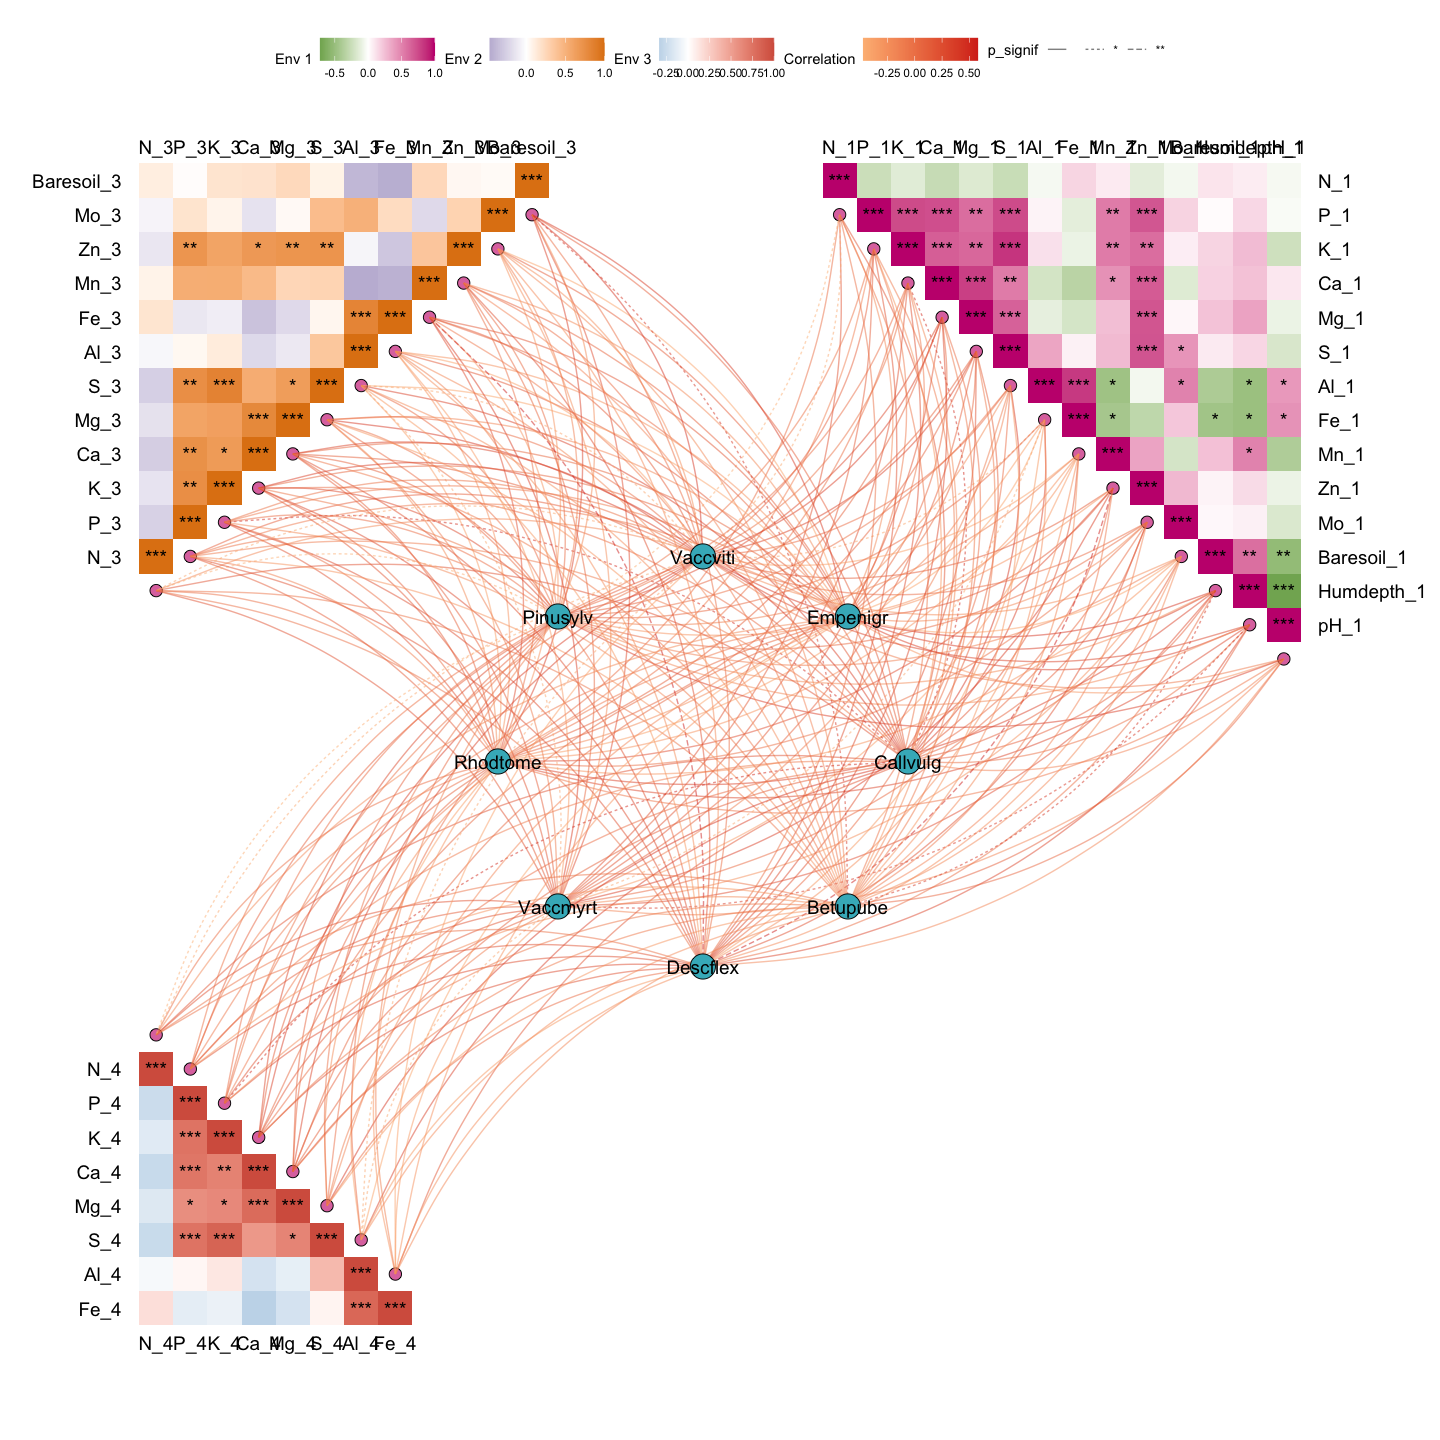
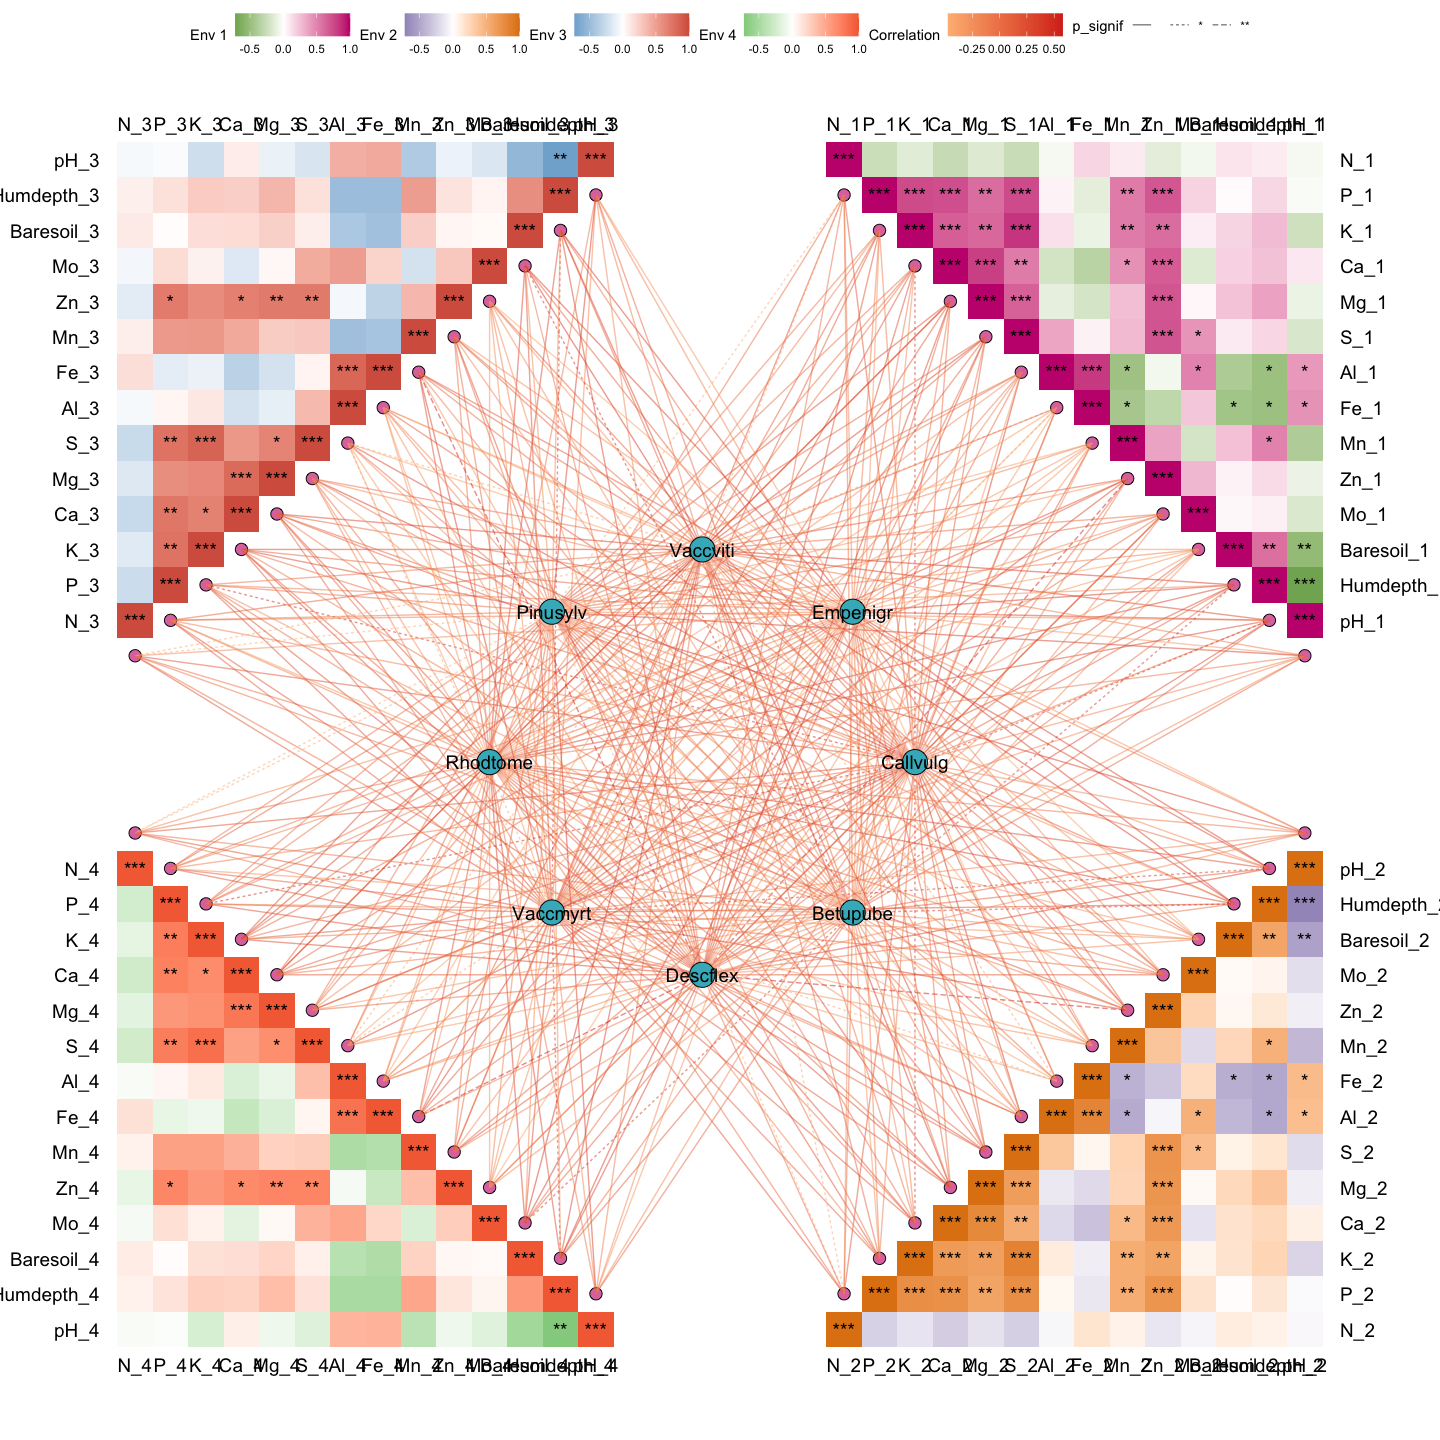
update

diff --git a/README.md b/README.md
@@ -58,6 +58,7 @@ library(ggNetView)
 #>   Run browseVignettes('ggNetView') for documentation.
 #> 
 library(ggplot2)
+#> Warning: package 'ggplot2' was built under R version 4.5.2
 library(ggnewscale)
 ```
 
@@ -145,6 +146,7 @@ p1 <- ggNetView(
   layout = "gephi",
   layout.module = "adjacent",
   group.by = "Modularity",
+  fill.by = "Modularity",
   pointsize = c(1, 5),
   center = F,
   jitter = F,
@@ -153,8 +155,6 @@ p1 <- ggNetView(
   linealpha = 0.2,
   linecolor = "#d9d9d9"
 ) 
-#> Scale for fill is already present.
-#> Adding another scale for fill, which will replace the existing scale.
 
 p1
 ```
@@ -167,6 +167,7 @@ p2 <- ggNetView(
   layout = "gephi",
   layout.module = "random",
   group.by = "Modularity",
+  fill.by = "Modularity",
   pointsize = c(1, 5),
   center = F,
   jitter = TRUE,
@@ -178,12 +179,8 @@ p2 <- ggNetView(
   add_outer = T,
   label = T
 ) 
-#> Scale for fill is already present.
-#> Adding another scale for fill, which will replace the existing scale.
 #> Large array (1004 rows x 997 columns x 17 images) broken into 4 pieces to avoid memory limits
-#> 
 #> Each piece of the raster consists of 710 rows and 705 columns
-#> 
 #> Coordinate system already present.
 #> ℹ Adding new coordinate system, which will replace the existing one.
 
@@ -193,6 +190,36 @@ p2
 ```
 
 <img src="man/figures/README-unnamed-chunk-9-1.png" width="100%" style="display: block; margin: auto;" />
+
+``` r
+p3 <- ggNetView(
+  graph_obj = obj,
+  layout = "gephi",
+  layout.module = "random",
+  group.by = "Modularity",
+  fill.by = "Phylum",
+  pointsize = c(1, 5),
+  center = F,
+  jitter = TRUE,
+  jitter_sd = 0.15,
+  mapping_line = TRUE,
+  shrink = 0.9,
+  linealpha = 0.2,
+  linecolor = "#d9d9d9",
+  add_outer = T,
+  label = T
+) 
+#> Large array (1004 rows x 997 columns x 17 images) broken into 4 pieces to avoid memory limits
+#> Each piece of the raster consists of 710 rows and 705 columns
+#> Coordinate system already present.
+#> ℹ Adding new coordinate system, which will replace the existing one.
+
+p3
+#> Warning: No shared levels found between `names(values)` of the manual scale and the
+#> data's fill values.
+```
+
+<img src="man/figures/README-unnamed-chunk-10-1.png" width="100%" style="display: block; margin: auto;" />
 
 ### Step5: save plot
 
@@ -204,6 +231,11 @@ p2
 
     ggsave(file = "Output/p2.pdf",
            plot = p2,
+           height = 10,
+           width = 10)
+           
+    ggsave(file = "Output/p3.pdf",
+           plot = p3,
            height = 10,
            width = 10)
 
@@ -236,7 +268,7 @@ out1 <- gglink_heatmaps(
 out1[[1]]
 ```
 
-<img src="man/figures/README-unnamed-chunk-11-1.png" width="100%" style="display: block; margin: auto;" />
+<img src="man/figures/README-unnamed-chunk-12-1.png" width="100%" style="display: block; margin: auto;" />
 
 ## Example3
 
@@ -260,7 +292,7 @@ out2 <- gglink_heatmaps(
 out2[[2]]
 ```
 
-<img src="man/figures/README-unnamed-chunk-12-1.png" width="100%" style="display: block; margin: auto;" />
+<img src="man/figures/README-unnamed-chunk-13-1.png" width="100%" style="display: block; margin: auto;" />
 
 ## sessionInfo
 
@@ -284,7 +316,7 @@ sessionInfo()
 #> [1] stats     graphics  grDevices utils     datasets  methods   base     
 #> 
 #> other attached packages:
-#> [1] ggnewscale_0.5.2 ggplot2_4.0.0    ggNetView_0.1.0 
+#> [1] ggnewscale_0.5.2 ggplot2_4.0.1    ggNetView_0.1.0 
 #> 
 #> loaded via a namespace (and not attached):
 #>   [1] mnormt_2.1.1            DBI_1.2.3               deldir_2.0-4           
@@ -310,7 +342,7 @@ sessionInfo()
 #>  [61] yaml_2.3.10             spatstat.random_3.4-2   spatstat.explore_3.5-3 
 #>  [64] doParallel_1.0.17       codetools_0.2-20        lattice_0.22-7         
 #>  [67] tibble_3.3.0            Biobase_2.68.0          withr_3.0.2            
-#>  [70] KEGGREST_1.48.1         S7_0.2.0                evaluate_1.0.5         
+#>  [70] KEGGREST_1.48.1         S7_0.2.1                evaluate_1.0.5         
 #>  [73] foreign_0.8-90          survival_3.8-3          polyclip_1.10-7        
 #>  [76] Biostrings_2.76.0       pillar_1.11.1           checkmate_2.3.3        
 #>  [79] foreach_1.5.2           stats4_4.5.1            generics_0.1.4         
@@ -322,7 +354,7 @@ sessionInfo()
 #>  [97] GenomeInfoDbData_1.2.14 ggforce_0.5.0           htmlTable_2.4.3        
 #> [100] Formula_1.2-5           cli_3.6.5               spatstat.sparse_3.1-0  
 #> [103] mascarade_0.2.1         viridisLite_0.4.2       dplyr_1.1.4            
-#> [106] gtable_0.3.6            dynamicTreeCut_1.63-1   digest_0.6.38          
+#> [106] gtable_0.3.6            dynamicTreeCut_1.63-1   digest_0.6.39          
 #> [109] BiocGenerics_0.54.0     ggrepel_0.9.6           htmlwidgets_1.6.4      
 #> [112] farver_2.1.2            memoise_2.0.1           htmltools_0.5.8.1      
 #> [115] multtest_2.64.0         lifecycle_1.0.4         httr_1.4.7             